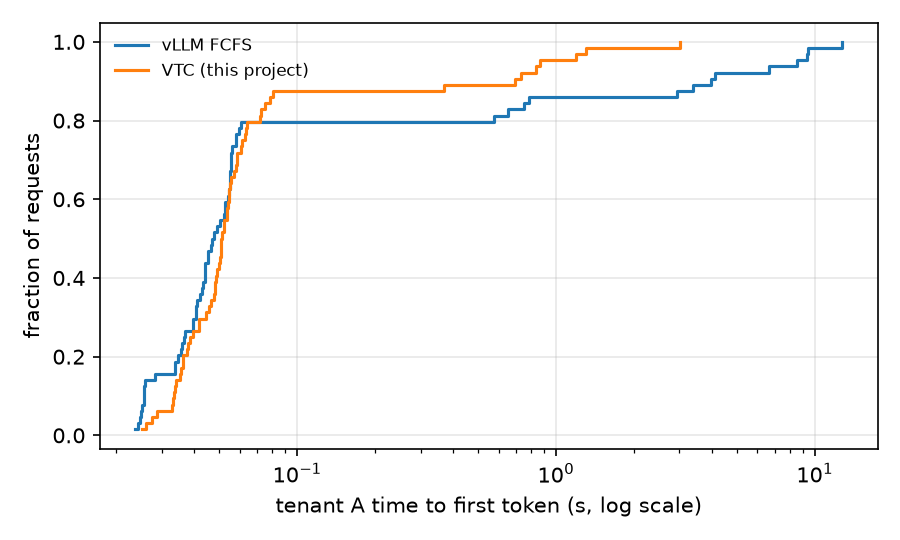
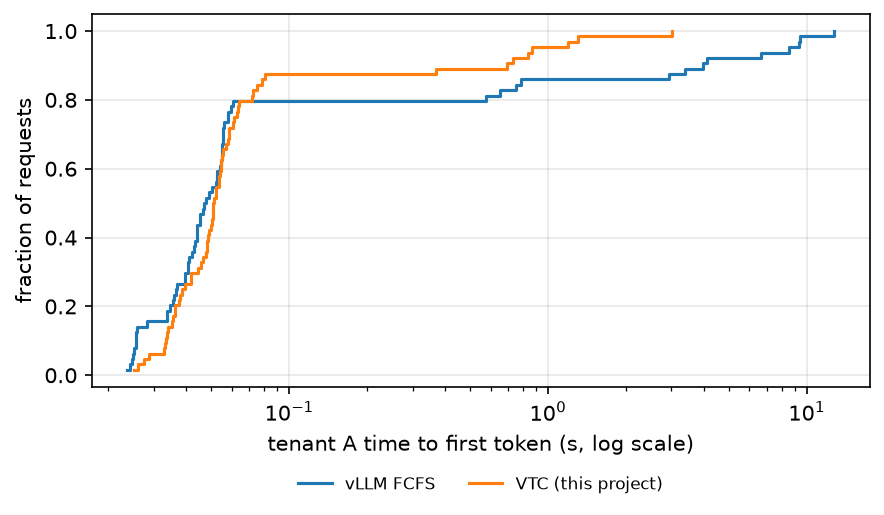
Draw the TTFT plot's legend below the axes
With five arms the legend covered part of a curve.

Changed region(s): [[0.0, 0.0, 0.9774, 0.9631]]

diff --git a/bench/plots.py b/bench/plots.py
@@ -36,9 +36,10 @@ def plot_ttft_cdf(runs: dict[str, Path], tenant: str, path: Path) -> None:
     ax.set_xlabel(f"tenant {tenant} time to first token (s, log scale)")
     ax.set_ylabel("fraction of requests")
     ax.grid(alpha=0.3)
-    ax.legend(frameon=False, fontsize=8)
+    # Below the axes, so the legend never covers a curve.
+    ax.legend(frameon=False, fontsize=8, loc="upper center", bbox_to_anchor=(0.5, -0.2), ncol=2)
     fig.tight_layout()
-    fig.savefig(path, dpi=150)
+    fig.savefig(path, dpi=150, bbox_inches="tight")
     plt.close(fig)
 
 
